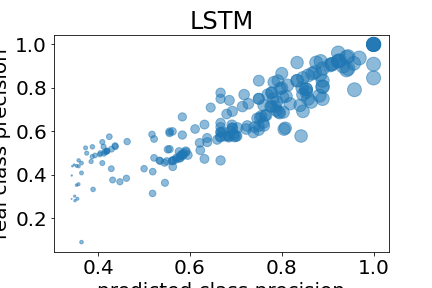
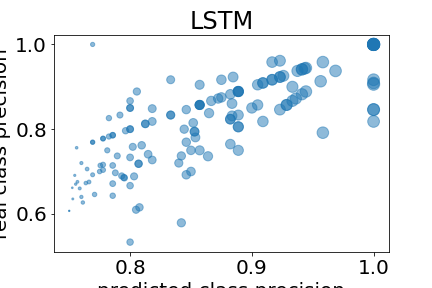
fixed bug

diff --git a/myUtils.py b/myUtils.py
@@ -11,16 +11,16 @@ class MyExplanation:
         self.precision = exp.precision()
         
 class ExtendedExplanation:
-    def __init__(self, exp, test, test_labels, predict_sentences, explainer):
+    def __init__(self, exp, anchor_examples, test, test_labels, predict_sentences, explainer):
         self.index = exp.index
         self.fit_examples = exp.fit_examples
         self.test_cov = exp.test_cov
         self.names =  exp.names
         self.coverage = exp.coverage
         self.precision = exp.precision
-        exp_label =  predict_sentences([str(test[exp.index])])[0]
+        exp_label =  predict_sentences([str(anchor_examples[exp.index])])[0]
         self.test_precision = np.mean(predict_sentences(test[exp.fit_examples]) == exp_label)
-        self.real_precision = np.mean(test_labels[exp.fit_examples] == explainer.class_names[predict_sentences([str(test[exp.index])])[0]])
+        self.real_precision = np.mean(test_labels[exp.fit_examples] == explainer.class_names[exp_label])
 
 class TabularUtils:
     
